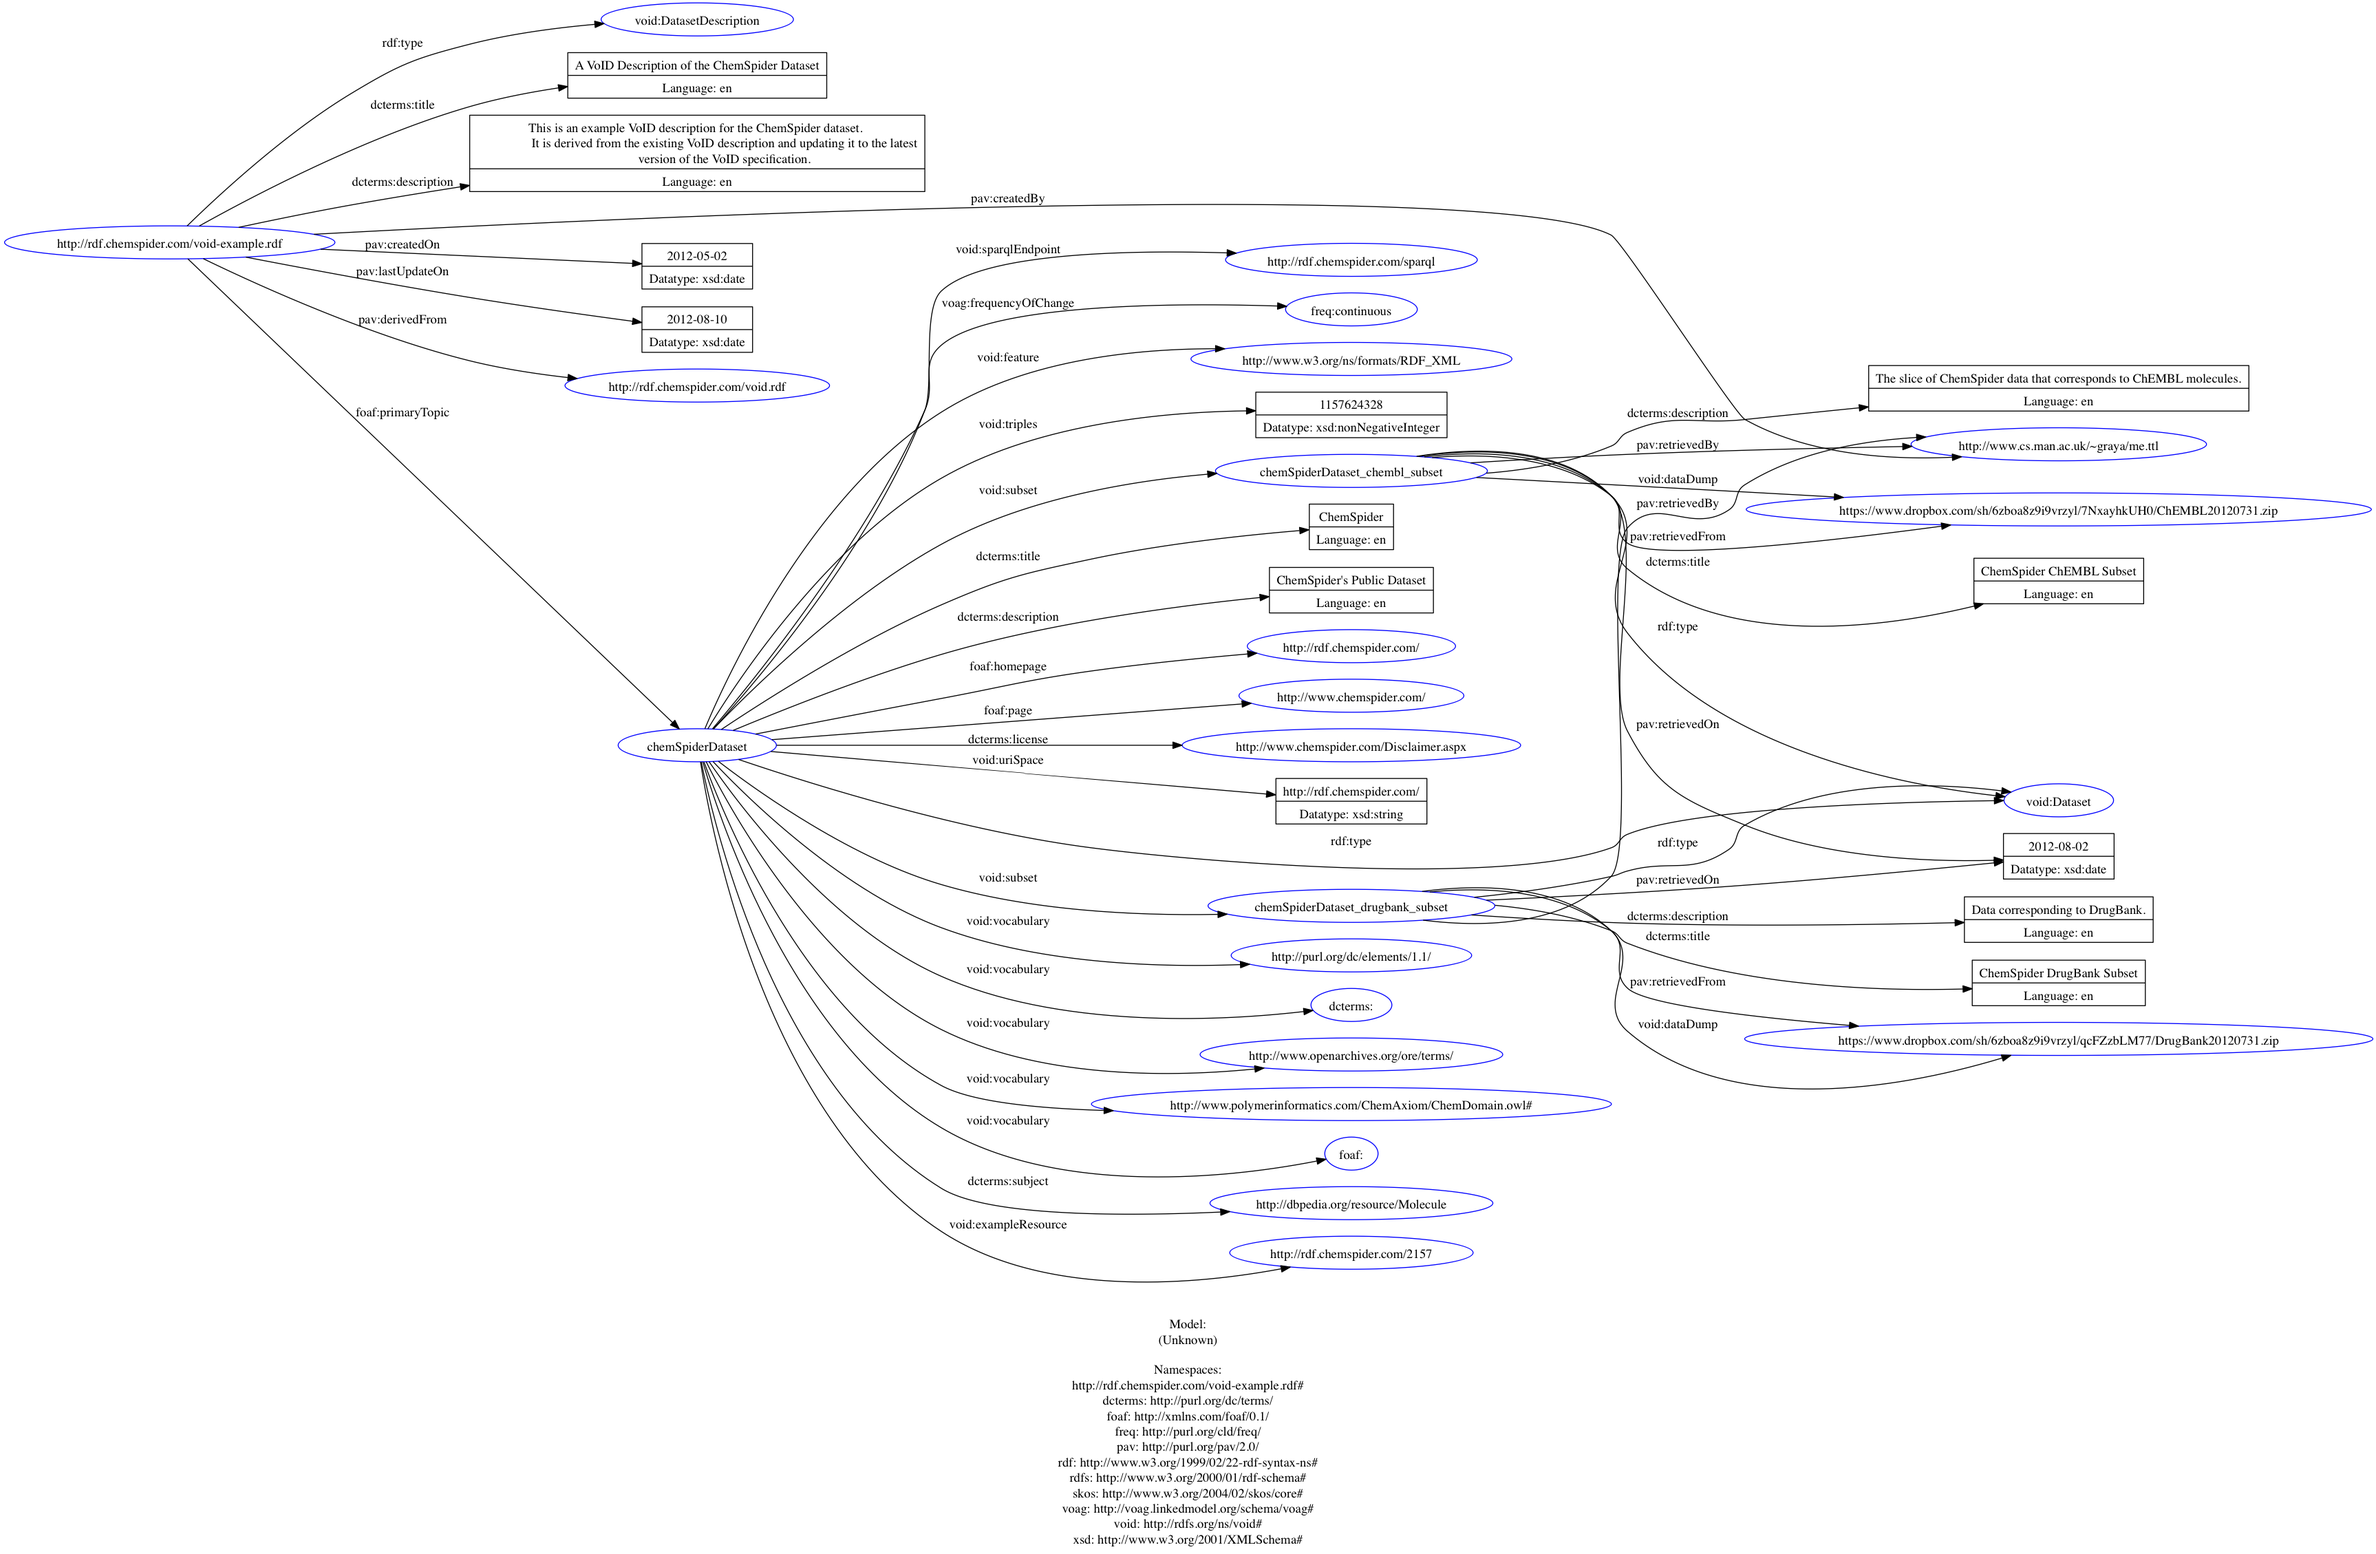
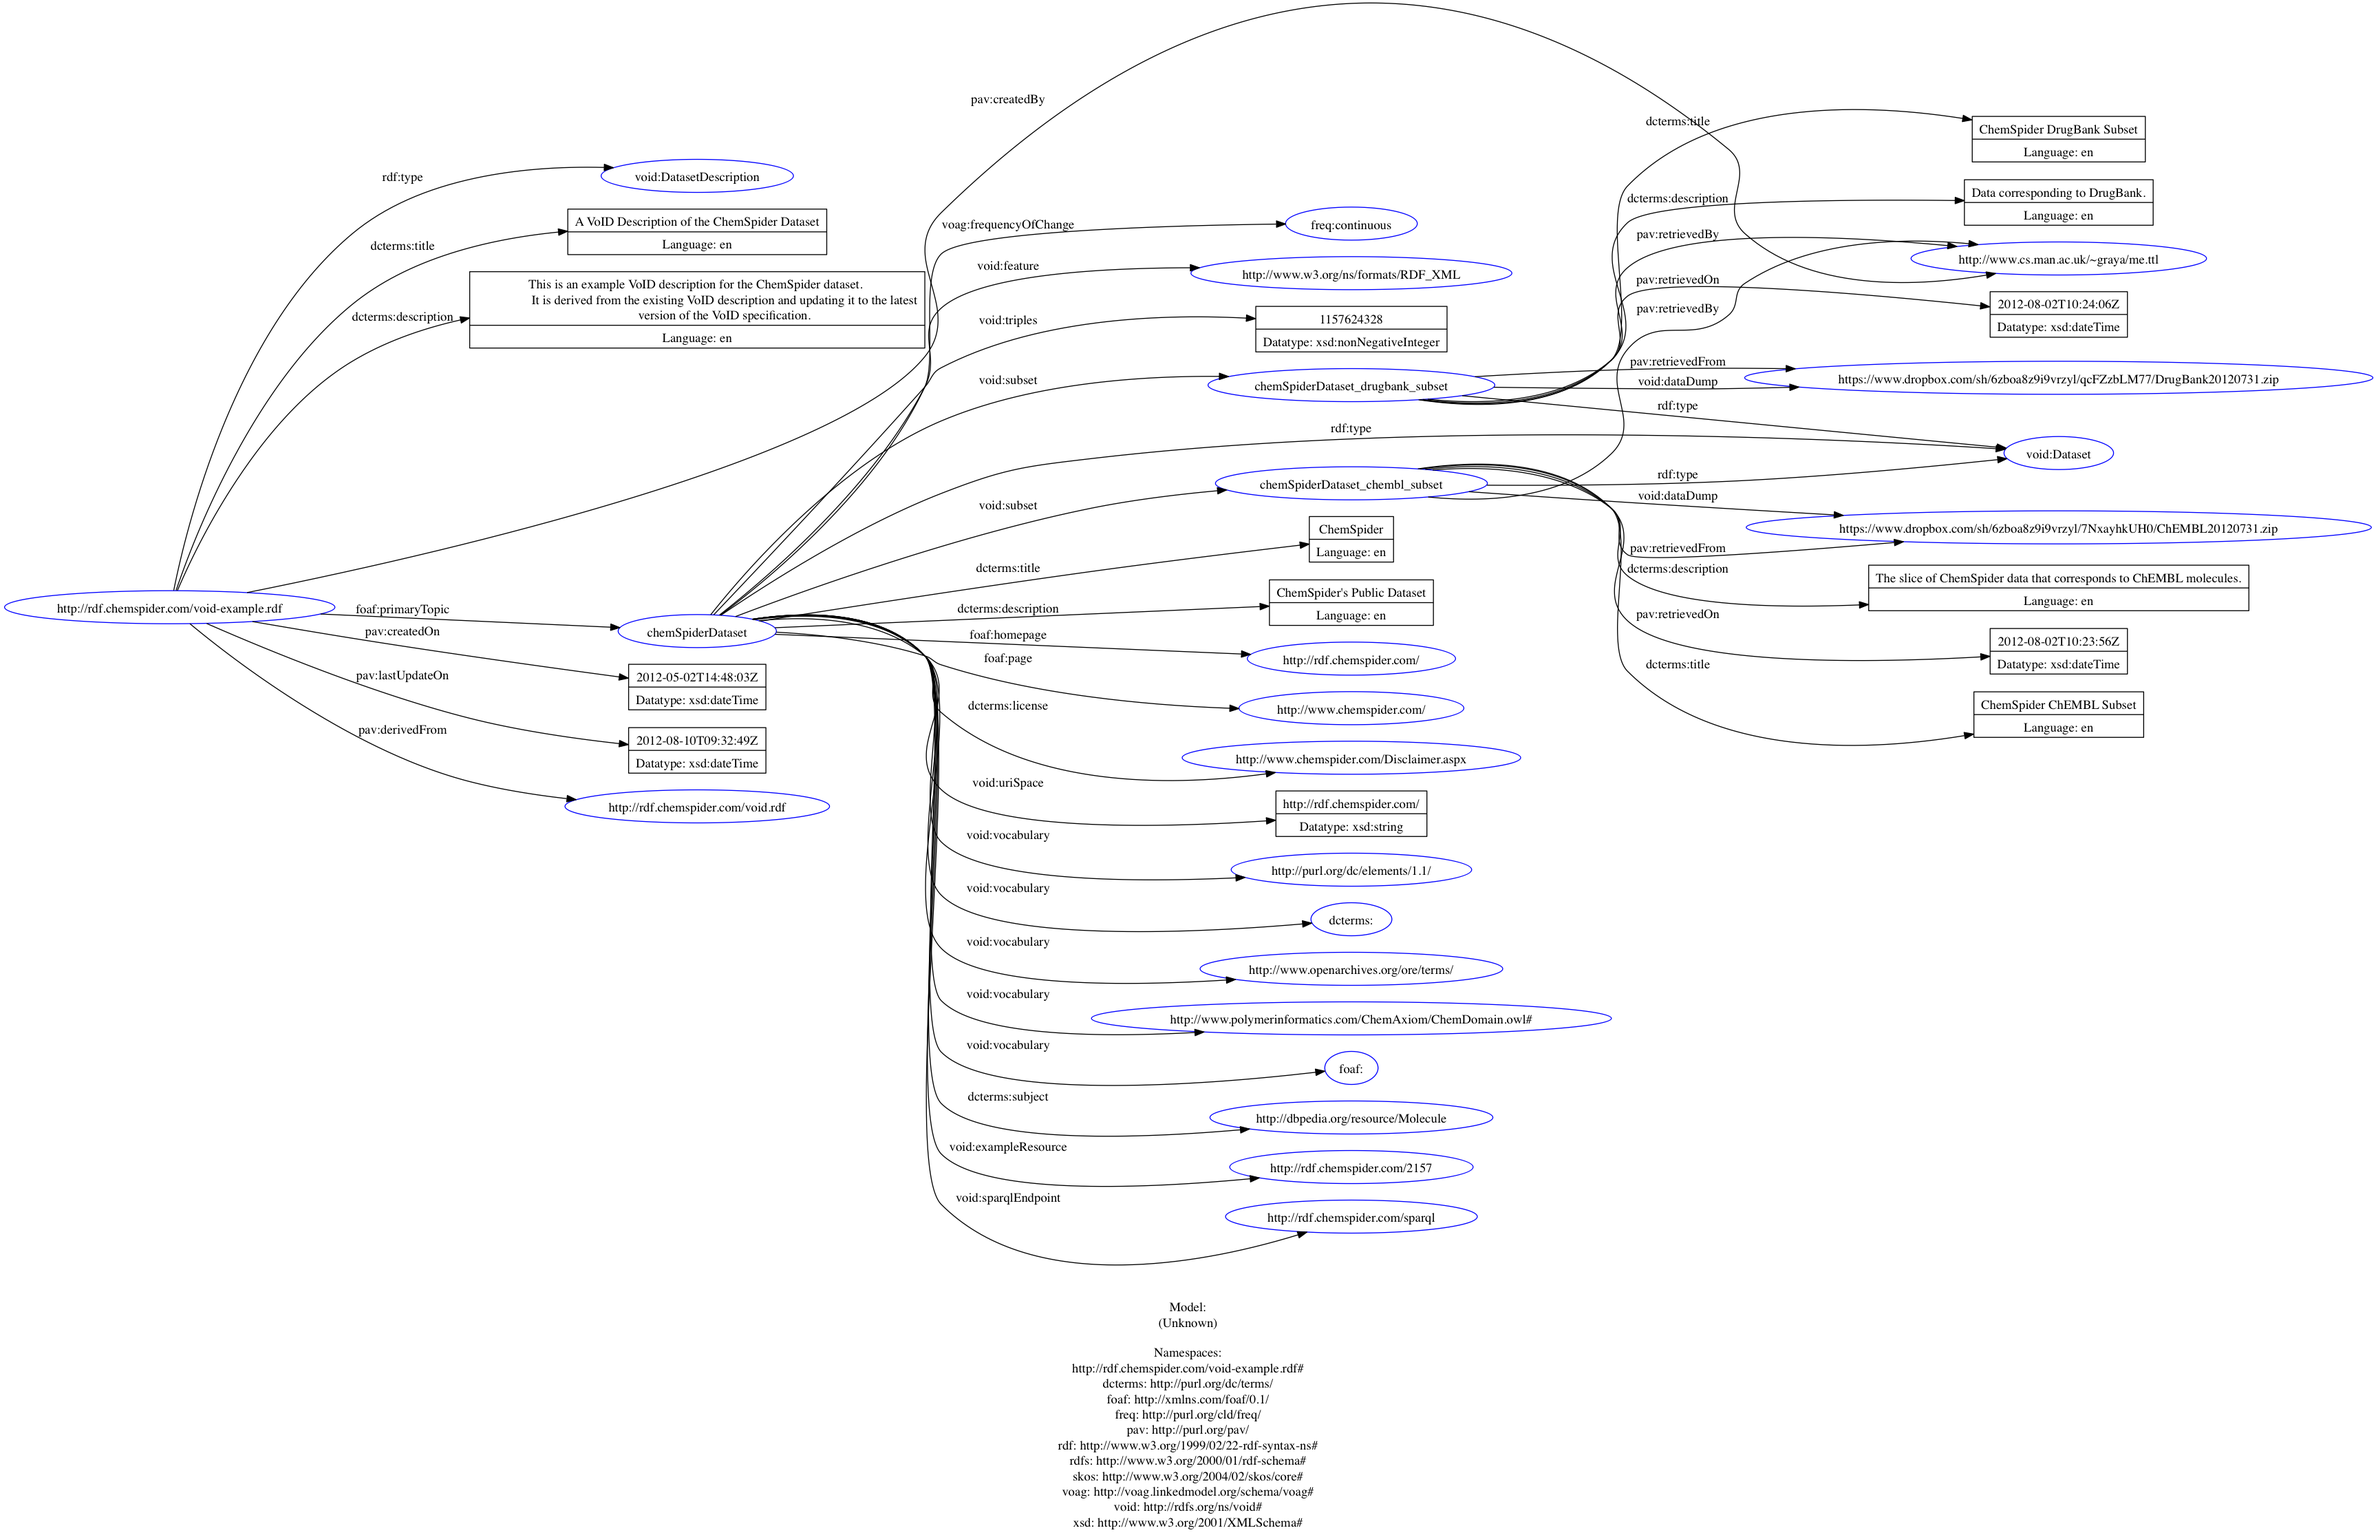
RESOLVED https://openphacts2011.atlassian.net/browse/DOC-115
Made all the updates required

diff --git a/datadesc/index.html b/datadesc/index.html
@@ -187,7 +187,7 @@
 @prefix foaf: &lt;http://xmlns.com/foaf/0.1/&gt; .
 @prefix freq: &lt;http://purl.org/cld/freq/&gt; .
 @prefix owl: &lt;http://www.w3.org/2002/07/owl#&gt; .
-@prefix pav: &lt;http://purl.org/pav/2.0/&gt; .
+@prefix pav: &lt;http://purl.org/pav/&gt; .
 @prefix rdf: &lt;http://www.w3.org/1999/02/22-rdf-syntax-ns#&gt; .
 @prefix rdfs: &lt;http://www.w3.org/2000/01/rdf-schema#&gt; .
 @prefix skos: &lt;http://www.w3.org/2004/02/skos/core#&gt; .
@@ -637,6 +637,11 @@
 				<code>pav:version</code></a> predicate, where this exists for
 				the dataset.
 			</li>
+			<li>
+				May link back to the previous version of the dataset using the
+				<a href="http://purl.org/pav/" target="_blank"> 
+				<code>pav:previousVersion</code></a> predicate.
+			</li>
 		</ul>
 			
 		<p>
@@ -736,29 +741,35 @@
 					</li>
 					<li>
 						<a href="http://purl.org/pav/" target="_blank">
-						<code>pav:derivedOn</code></a> to capture when the 
-						derivation was made.
+						<code>pav:createdOn</code></a> to capture when the 
+						dataset was made.
 					</li>
 					<li>
 						<a href="http://purl.org/pav/" target="_blank">
-						<code>pav:derivedBy</code></a> to capture who made the
-						derivation. 
+						<code>pav:createdBy</code></a> to capture who made the
+						dataset. 
 					</li>
 				</ul>
 			</li>
-		</ul>
-		
+		</ul>		
 		<p>
 			Note that the object of the <code>pav:xxxBy</code> predicate is 
 			a URI. 
-		</p>
-		
+		</p>	
 		<p id="orcid-note" class="note">
 			We currently do not require a specific form of URI for capturing
 			the details of a perosn or entity. Future versions of this
 			specification may recommend the use of ORCID Identifiers 
 			[[ORCID]].
 		</p>
+		<ul>
+			<li>
+				Should declare the software used to create the RDF 
+				representation of the dataset using the
+				<a href="http://purl.org/pav/" target="_blank">
+				<code>pav:createdWith</code></a> predicate.
+			</li> 
+		</ul>
 
 	<!-- end dataset-prov-version -->
 	</section>
@@ -1191,9 +1202,15 @@
 		<h4 id="linkset-version">Linkset Version</h4>
 		<ul>
 			<li>
-				May declare a version number for the linkset using the
+				Must declare a version number for the linkset when this exists 
+				using the
 				<a href="http://purl.org/pav/" target="_blank">
 				<code>pav:version</code></a> predicate.
+			</li>
+			<li>
+				May link back to the previous version of the dataset using the
+				<a href="http://purl.org/pav/" target="_blank"> 
+				<code>pav:previousVersion</code></a> predicate.
 			</li>
 		</ul>
 		
@@ -1205,11 +1222,11 @@
 				<ul>
 					<li>
 						<a href="http://purl.org/pav/" target="_blank">
-						<code>pav:accessedBy</code></a>
+						<code>pav:sourceAccessedBy</code></a>
 					</li>
 					<li>
 						<a href="http://purl.org/pav/" target="_blank">
-						<code>pav:accessedOn</code></a>
+						<code>pav:sourceAccessedOn</code></a>
 					</li>
 				</ul>
 				For the linkset parent dataset, this information may be omitted
@@ -1354,8 +1371,8 @@
 &lt;&gt; a void:DatasetDescription ;
     dcterms:title "ChemSpider VoID Description"^^xsd:string ;
     pav:createdBy &lt;http://www.chemspider.com/&gt; ;
-	pav:createdOn "2012-05-02"^^xsd:date;
-	pav:lastUpdateOn "2012-08-10"^^xsd:date;
+	pav:createdOn "2012-05-02T13:50:34Z"^^xsd:dateTime;
+	pav:lastUpdateOn "2012-08-10T13:52:12Z"^^xsd:dateTime;
     foaf:primaryTopic :chemSpiderDataset .    
 		</pre>
 	<!-- end document-descriptor -->
@@ -1722,7 +1739,7 @@
 @prefix dcterms: &lt;http://purl.org/dc/terms/&gt;.
 @prefix foaf: &lt;http://xmlns.com/foaf/0.1/&gt; .
 @prefix freq: &lt;http://purl.org/cld/freq/&gt; .
-@prefix pav: &lt;http://purl.org/pav/2.0/&gt;.
+@prefix pav: &lt;http://purl.org/pav/&gt;.
 @prefix rdf: &lt;http://www.w3.org/1999/02/22-rdf-syntax-ns#&gt;.
 @prefix rdfs: &lt;http://www.w3.org/2000/01/rdf-schema#&gt;.
 @prefix skos: &lt;http://www.w3.org/2004/02/skos/core#&gt;.
@@ -1739,8 +1756,8 @@
 		   It is derived from the existing VoID description and updating it to the latest
 		   version of the VoID specification."""@en;
 	pav:createdBy &lt;http://www.cs.man.ac.uk/~graya/me.ttl&gt;;
-	pav:createdOn "2012-05-02"^^xsd:date;
-	pav:lastUpdateOn "2012-08-10"^^xsd:date;
+	pav:createdOn "2012-05-02T14:48:03Z"^^xsd:dateTime;
+	pav:lastUpdateOn "2012-08-10T09:32:49Z"^^xsd:dateTime;
 	pav:derivedFrom &lt;http://rdf.chemspider.com/void.rdf&gt;;
 	foaf:primaryTopic :chemSpiderDataset;
 	.
@@ -1783,7 +1800,7 @@
 	dcterms:description "The slice of ChemSpider data that corresponds to ChEMBL molecules."@en;
 #Provenance
 	pav:retrievedFrom &lt;https://www.dropbox.com/sh/6zboa8z9i9vrzyl/7NxayhkUH0/ChEMBL20120731.zip&gt;;
-	pav:retrievedOn "2012-08-02"^^xsd:date;
+	pav:retrievedOn "2012-08-02T10:23:56Z"^^xsd:dateTime;
 	pav:retrievedBy &lt;http://www.cs.man.ac.uk/~graya/me.ttl&gt; ;
 #Dataset Access
 	void:dataDump &lt;https://www.dropbox.com/sh/6zboa8z9i9vrzyl/7NxayhkUH0/ChEMBL20120731.zip&gt;;
@@ -1797,7 +1814,7 @@
 	dcterms:description "Data corresponding to DrugBank."@en;
 #Provenance
 	pav:retrievedFrom &lt;https://www.dropbox.com/sh/6zboa8z9i9vrzyl/qcFZzbLM77/DrugBank20120731.zip&gt;;
-	pav:retrievedOn "2012-08-02"^^xsd:date;
+	pav:retrievedOn "2012-08-02T10:24:06Z"^^xsd:dateTime;
 	pav:retrievedBy &lt;http://www.cs.man.ac.uk/~graya/me.ttl&gt; ;
 #Dataset Access
 	void:dataDump &lt;https://www.dropbox.com/sh/6zboa8z9i9vrzyl/qcFZzbLM77/DrugBank20120731.zip&gt;;
@@ -1829,7 +1846,7 @@
 @prefix dcterms: &lt;http://purl.org/dc/terms/&gt;.
 @prefix foaf: &lt;http://xmlns.com/foaf/0.1/&gt; .
 @prefix freq: &lt;http://purl.org/cld/freq/&gt; .
-@prefix pav: &lt;http://purl.org/pav/2.0/&gt;.
+@prefix pav: &lt;http://purl.org/pav/&gt;.
 @prefix rdf: &lt;http://www.w3.org/1999/02/22-rdf-syntax-ns#&gt;.
 @prefix rdfs: &lt;http://www.w3.org/2000/01/rdf-schema#&gt;.
 @prefix skos: &lt;http://www.w3.org/2004/02/skos/core#&gt;.
@@ -1844,8 +1861,8 @@
     dcterms:description 
         """This is the VoID description for a ChEMBL-RDF dataset."""@en;
     pav:createdBy &lt;http://egonw.github.com/#me&gt; ;
-    pav:createdOn "2012-08-12"^^xsd:date;
-    pav:lastUpdatedOn "2012-09-14"^^xsd:date;
+    pav:createdOn "2012-08-12T16:56:07Z"^^xsd:dateTime;
+    pav:lastUpdatedOn "2012-09-14T12:21:12Z"^^xsd:dateTime;
     pav:previousVersion &lt;http://semantics.bigcat.unimaas.nl/chembl/v13_ops/chembl-rdf-void.ttl&gt;;
     foaf:primaryTopic :chemblrdf_dataset.
 
@@ -1862,7 +1879,7 @@
 	pav:version "v13_ops";
     pav:importedFrom :chembl_dataset;
     pav:importedBy &lt;http://egonw.github.com/#me&gt; ;
-    pav:importedOn "2012-05-15"^^xsd:date;
+    pav:importedOn "2012-05-15T15:34:40Z"^^xsd:dateTime;
 # Subsets
     void:subset :chemblrdf_compounds, :chemblrdf_targets ;
 # Vocabularies, topics, resources
@@ -1899,8 +1916,8 @@
     dcterms:license &lt;http://creativecommons.org/licenses/by-sa/3.0/&gt; ;
     pav:version "13"^^xsd:integer ;
     dcterms:publisher &lt;http://www.ebi.ac.uk/chembl/&gt;;
-    dcterms:created "2012-02-29"^^xsd:date;
-    dcterms:modified "2012-02-29"^^xsd:date;
+    dcterms:created "2012-02-29T00:00:00Z"^^xsd:dateTime;
+    dcterms:modified "2012-02-29T00:00:00Z"^^xsd:dateTime;
     .
 
 :chemblrdf_compounds
@@ -1957,7 +1974,7 @@
 @prefix dul: &lt;http://www.ontologydesignpatterns.org/ont/dul/DUL.owl&gt; .
 @prefix foaf: &lt;http://xmlns.com/foaf/0.1/&gt; .
 @prefix freq: &lt;http://purl.org/cld/freq/&gt; .
-@prefix pav: &lt;http://purl.org/pav/2.0/&gt;.
+@prefix pav: &lt;http://purl.org/pav/&gt;.
 @prefix rdf: &lt;http://www.w3.org/1999/02/22-rdf-syntax-ns#&gt;.
 @prefix rdfs: &lt;http://www.w3.org/2000/01/rdf-schema#&gt;.
 @prefix skos: &lt;http://www.w3.org/2004/02/skos/core#&gt;.
@@ -1974,15 +1991,15 @@
     dcterms:descriptions """A VoID linkset that links compounds in ChEMBL-RDF
         with compounds in ChemSpider."""@en; 
     pav:createdBy &lt;http://egonw.github.com/#me&gt; ;
-    pav:createdOn "2012-08-13"^^xsd:date ;
-    pav:lastUpdateOn "2012-09-14"^^xsd:date ;
+    pav:createdOn "2012-08-13T15:00:00Z"^^xsd:dateTime ;
+    pav:lastUpdateOn "2012-09-14T11:15:32Z"^^xsd:dateTime ;
     foaf:primaryTopic :chembl-rdf-compounds_cs_linkset ;
     .
  
 # Pointer to the ChemSpider VoID file
 &lt;http://rdf.chemspider.com/void.ttl#chemSpiderDataset&gt;
 	# State when the dataset was accessed for creating linkset
-    pav:accessedOn "2012-02-22"^^xsd:date .
+    pav:sourceAccessedOn "2012-02-22T10:59:38Z"^^xsd:dateTime .
 
 # Pointer to the subset description in the ChEMBL VoID file
 &lt;http://data.kasabi.com/dataset/chembl-rdf/void.ttl#chemblrdf_compounds&gt;
@@ -2002,10 +2019,10 @@
     void:linkPredicate skos:exactMatch ;
     dul:expresses &lt;http://???&gt; ;
 # Linkset provenance
-    pav:authoredOn "2012-02-22"^^xsd:date ;
+    pav:authoredOn "2012-02-22T10:59:38Z"^^xsd:dateTime ;
     pav:authoredBy &lt;http://www.chemspider.com/&gt; ;
     pav:createdBy &lt;http://egonw.github.com/#me&gt; ;
-    pav:createdOn "2012-05-15"^^xsd:date ;
+    pav:createdOn "2012-05-15T11:29:01Z"^^xsd:dateTime ;
 # Linkset statistics
     void:triples "1073967"^^xsd:integer ;
     .
@@ -2041,7 +2058,7 @@ chembl:CHEMBL144103 skos:exactMatch &lt;http://rdf.chemspider.com/60&gt; .
 @prefix dul: &lt;http://www.ontologydesignpatterns.org/ont/dul/DUL.owl&gt; .
 @prefix foaf: &lt;http://xmlns.com/foaf/0.1/&gt; .
 @prefix freq: &lt;http://purl.org/cld/freq/&gt; .
-@prefix pav: &lt;http://purl.org/pav/2.0/&gt;.
+@prefix pav: &lt;http://purl.org/pav/&gt;.
 @prefix rdf: &lt;http://www.w3.org/1999/02/22-rdf-syntax-ns#&gt;.
 @prefix rdfs: &lt;http://www.w3.org/2000/01/rdf-schema#&gt;.
 @prefix skos: &lt;http://www.w3.org/2004/02/skos/core#&gt;.
@@ -2058,8 +2075,8 @@ chembl:CHEMBL144103 skos:exactMatch &lt;http://rdf.chemspider.com/60&gt; .
 		   The linkset relates ChemSpider identifiers with DrugBank identifiers.
 		   The links have been generated as the chemicals share the same structure."""@en;
 	pav:createdBy &lt;http://www.cs.man.ac.uk/~graya/me.ttl&gt;;
-	pav:createdOn "2012-08-13"^^xsd:date;
-	pav:lastUpdateOn "2012-09-14"^^xsd:date;
+	pav:createdOn "2012-08-13T16:43:25Z"^^xsd:dateTime;
+	pav:lastUpdateOn "2012-09-14T16:12:43Z"^^xsd:dateTime;
 	foaf:primaryTopic :chemSpider_drugbank_linkset;
 	.
 	
@@ -2082,7 +2099,7 @@ chembl:CHEMBL144103 skos:exactMatch &lt;http://rdf.chemspider.com/60&gt; .
 	void:uriSpace "http://www4.wiwiss.fu-berlin.de/drugbank/resource/drugs/"^^xsd:string;
 # Provenance and Version	
 	pav:version "3.0";
-	pav:importedOn "2011-11-30"^^xsd:date;
+	pav:importedOn "2011-11-30T11:01:59Z"^^xsd:dateTime;
 	pav:importedFrom &lt;http://www4.wiwiss.fu-berlin.de/drugbank/drugbank_dump.nt.bz2&gt;;
 	pav:importedBy [
 		a foaf:Person;
@@ -2104,9 +2121,9 @@ chembl:CHEMBL144103 skos:exactMatch &lt;http://rdf.chemspider.com/60&gt; .
 	dul:expresses &lt;http://???&gt;;
 # Linkset Provenance 
 	pav:authoredBy &lt;http://www.chemspider.com/&gt;;
-	pav:authoredOn "2012-02-23"^^xsd:date;
+	pav:authoredOn "2012-02-23T09:08:29Z"^^xsd:dateTime;
 	pav:createdBy &lt;http://www.cs.man.ac.uk/~graya/me.ttl&gt;;
-	pav:createdOn "2012-08-13"^^xsd:date;
+	pav:createdOn "2012-08-13T15:29:31Z"^^xsd:dateTime;
 # Linkset statistics
 	void:triples "6428"^^xsd:nonNegativeInteger;
 	.
